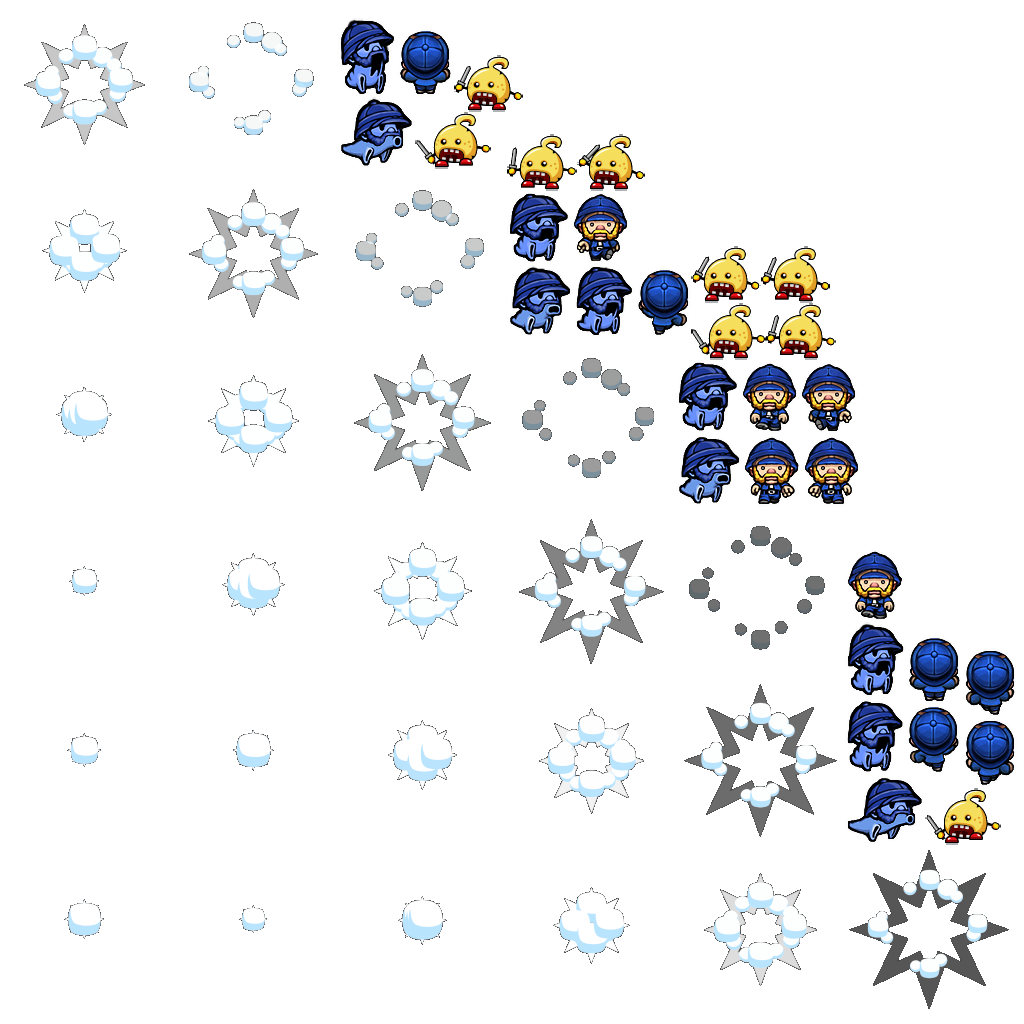
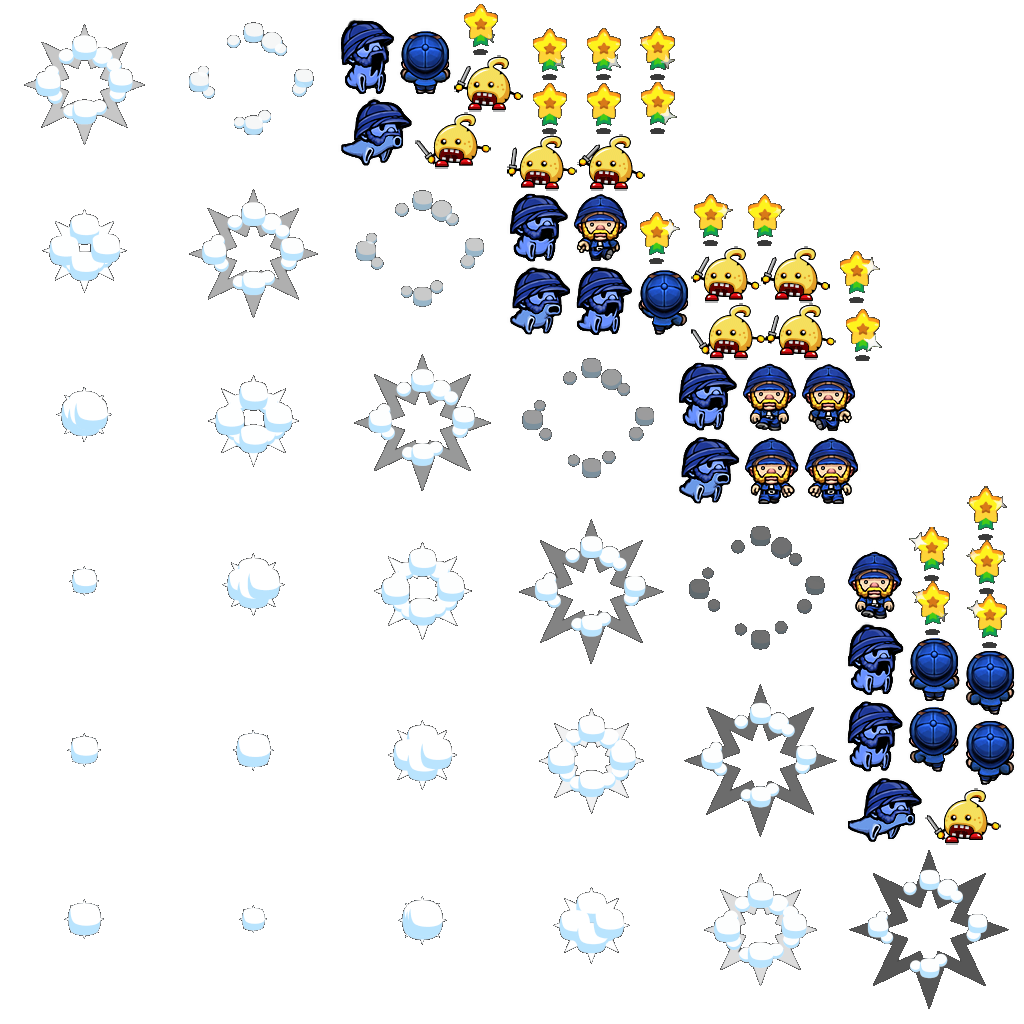
Comit desde casa

diff --git a/core/src/uy/com/agm/gamethree/tools/Assets.java b/core/src/uy/com/agm/gamethree/tools/Assets.java
@@ -8,7 +8,6 @@ import com.badlogic.gdx.audio.Music;
 import com.badlogic.gdx.audio.Sound;
 import com.badlogic.gdx.graphics.Texture;
 import com.badlogic.gdx.graphics.g2d.Animation;
-import com.badlogic.gdx.graphics.g2d.BitmapFont;
 import com.badlogic.gdx.graphics.g2d.TextureAtlas;
 import com.badlogic.gdx.graphics.g2d.TextureRegion;
 import com.badlogic.gdx.utils.Array;
@@ -28,7 +27,7 @@ public class Assets implements Disposable, AssetErrorListener {
     public AssetFonts fonts;
     public AssetHero hero;
     public AssetEnemyOne enemyOne;
-    //public AssetItem item;
+    public AssetPowerOne powerOne;
 
     public AssetSounds sounds;
     public AssetMusic music;
@@ -104,6 +103,23 @@ public class Assets implements Disposable, AssetErrorListener {
         }
     }
 
+    public class AssetPowerOne {
+        public final TextureRegion powerOneStand;
+        public final Animation powerOneAnimation;
+
+        public AssetPowerOne (TextureAtlas atlas) {
+            powerOneStand = atlas.findRegion("powerOne", 1);
+
+            Array<TextureAtlas.AtlasRegion> regions = null;
+            TextureAtlas.AtlasRegion region = null;
+
+            // TODO PARAMETRIZAR LAS DURACIONES DE LAS ANIMACIONES
+            regions = atlas.findRegions("powerOne");
+            powerOneAnimation = new Animation(1.0f / 16.0f, regions);
+            regions.clear();
+        }
+    }
+
     public class AssetSounds {
         public final Sound hit;
         public final Sound pickupItem;
@@ -152,7 +168,7 @@ public class Assets implements Disposable, AssetErrorListener {
         fonts = new AssetFonts();
         hero = new AssetHero(atlas);
         enemyOne = new AssetEnemyOne(atlas);
-        //item = new AssetItem(atlas);
+        powerOne = new AssetPowerOne(atlas);
         sounds = new AssetSounds(assetManager);
         music = new AssetMusic(assetManager);
     }

diff --git a/core/src/uy/com/agm/gamethree/sprites/Items/PowerOne.java b/core/src/uy/com/agm/gamethree/sprites/Items/PowerOne.java
@@ -36,14 +36,14 @@ public class PowerOne extends Item {
 
     public PowerOne(PlayScreen screen, float x, float y) {
         super(screen, x, y);
-        // TODO CAMBIAR
-        powerOneAnimation = Assets.instance.enemyOne.enemyOneAnimation;
+
+        powerOneAnimation = Assets.instance.powerOne.powerOneAnimation;
         stateTime = 0;
         stateWaiting = 0;
         stateFading = 0;
 
         // Si quisiera un círculo, debería crear mi propia clase que extienda de Sprite y maneje esa lógica.
-        TextureRegion powerOne = Assets.instance.enemyOne.enemyOneStand;
+        TextureRegion powerOne = Assets.instance.powerOne.powerOneStand;
         // setbounds es el que determina el tamano del dibujito del enemigo en pantalla
         setBounds(getX(), getY(), powerOne.getRegionWidth() / GameThree.PPM, powerOne.getRegionHeight() / GameThree.PPM);
 
@@ -68,6 +68,8 @@ public class PowerOne extends Item {
 
     @Override
     public void update(float dt) {
+        float alpha;
+
         switch (currentState) {
             case WAITING:
                 stateTime += dt;
@@ -92,7 +94,12 @@ public class PowerOne extends Item {
                 setPosition(b2body.getPosition().x - getWidth() / 2, b2body.getPosition().y - getHeight() / 2);
                 setRegion((TextureRegion) powerOneAnimation.getKeyFrame(stateTime, true));
                 // 0 invisible, 1 visible
-                this.setAlpha(1 - stateFading / 5.0f);
+
+                alpha = 1 - stateFading / 5.0f;
+                if (alpha >= 0) {
+                    Gdx.app.debug(TAG, "SETEO ALFA " + alpha);
+                    this.setAlpha(alpha);
+                }
                 // maximo 5 segundos de fading
                 if (stateFading > 5.0f) {
                     currentState = WASTED;
